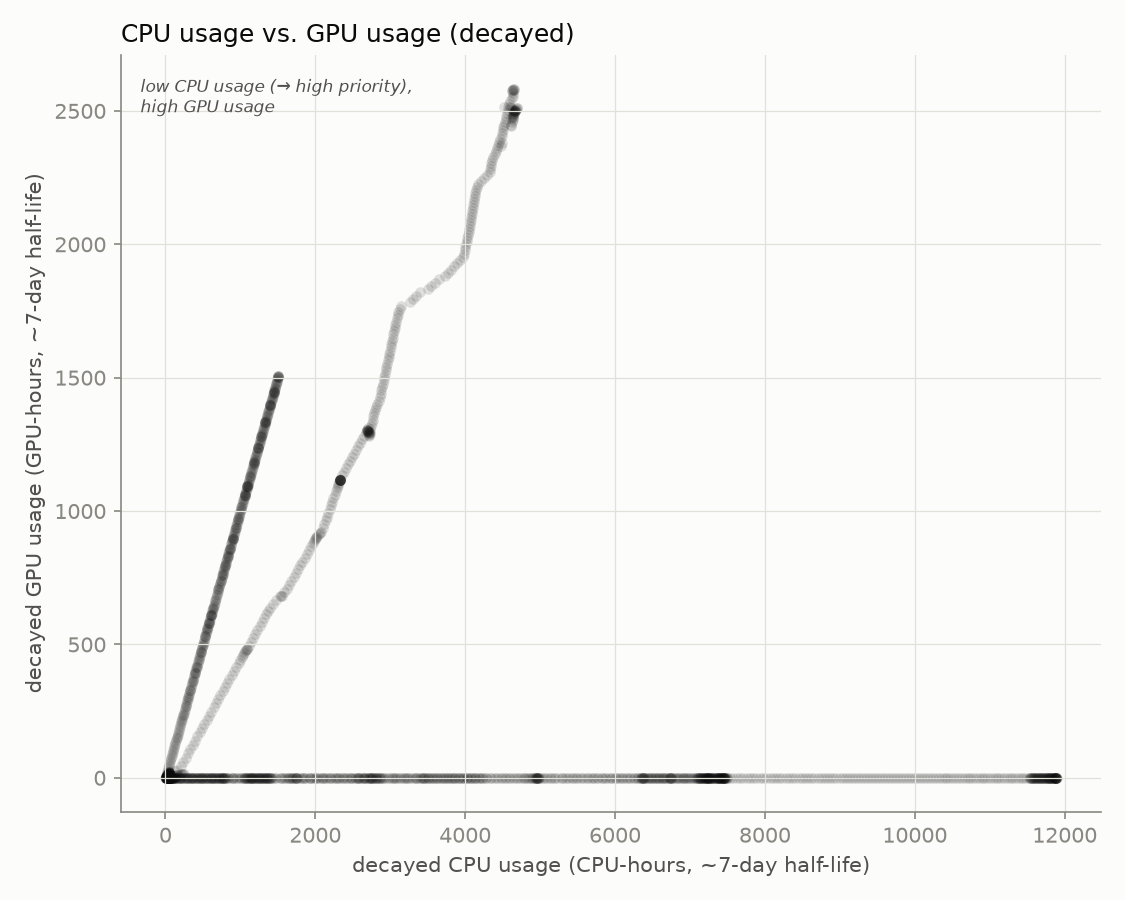
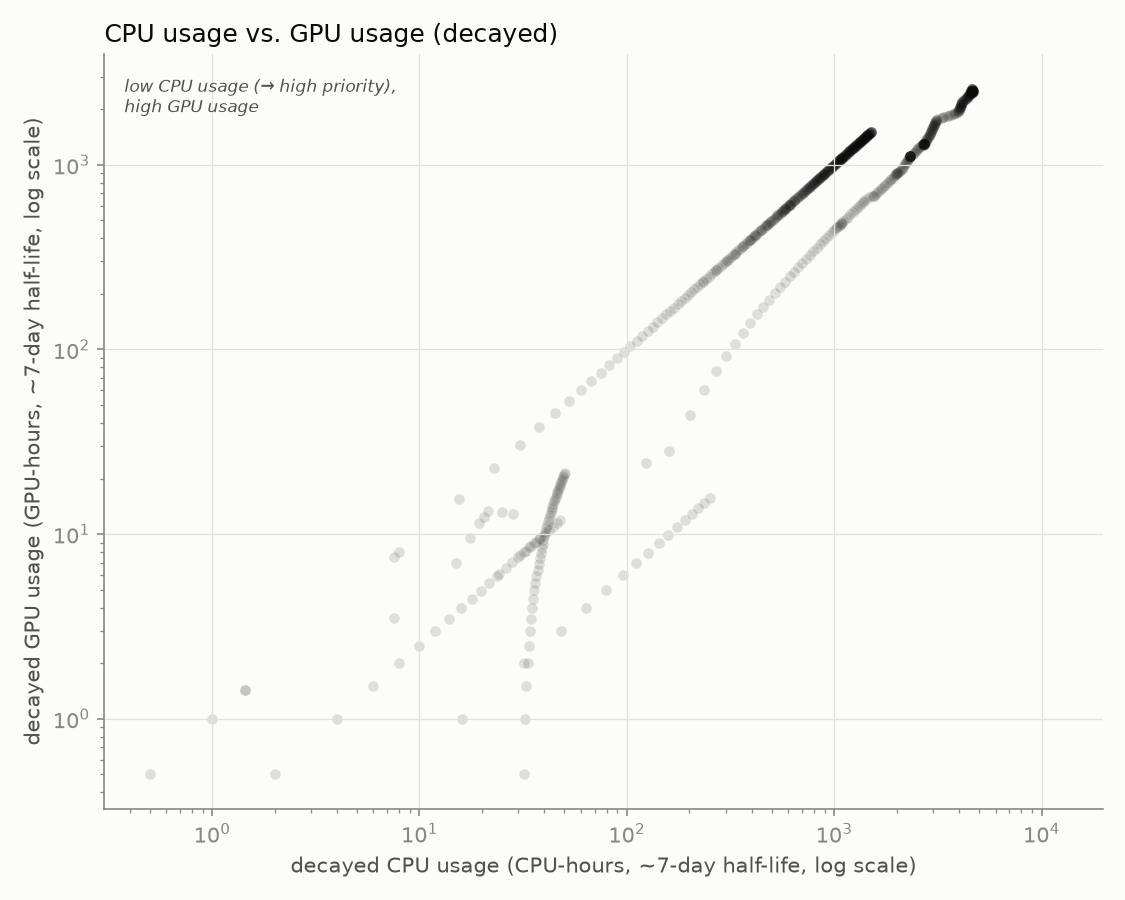
Use log scale for CPU vs GPU usage scatter axes

diff --git a/render_readme.py b/render_readme.py
@@ -656,8 +656,10 @@ def render(gpu_rows_all, cpu_util_rows_all, queue_rows_all_unfiltered,
         gpu_vals = [p[1] for p in decay_points]
         fig, ax = plt.subplots(figsize=(7.5, 6))
         ax.scatter(cpu_vals, gpu_vals, color=INK, alpha=0.12, s=26, linewidth=0)
-        ax.set_xlabel("decayed CPU usage (CPU-hours, ~7-day half-life)")
-        ax.set_ylabel("decayed GPU usage (GPU-hours, ~7-day half-life)")
+        ax.set_xscale("log")
+        ax.set_yscale("log")
+        ax.set_xlabel("decayed CPU usage (CPU-hours, ~7-day half-life, log scale)")
+        ax.set_ylabel("decayed GPU usage (GPU-hours, ~7-day half-life, log scale)")
         ax.set_title("CPU usage vs. GPU usage (decayed)", loc="left", fontsize=12)
         ax.text(0.02, 0.97, "low CPU usage (→ high priority),\nhigh GPU usage",
                 transform=ax.transAxes, ha="left", va="top", fontsize=8,

diff --git a/README.md b/README.md
@@ -2,7 +2,7 @@
 
 Automated GPU/CPU/queue utilization tracker for `hopper.cluster`, updated every 30 minutes by cron. Usernames are anonymized to a stable per-account pseudonym; lab names are real.
 
-Last updated: 2026-08-15T09:30:16-07:00
+Last updated: 2026-08-15T09:35:04-07:00
 Samples: 471 queue snapshots total (336 in the last 7 days), 471 GPU snapshots total (336 in the last 7 days)
 
 ## Resources
@@ -35,18 +35,18 @@ Based on 11 days of history so far, `hopper.cluster` has historically been most 
 <tr style='background-color:#d8efef'><td>witter-lab</td><td>user-f5bf0d80</td><td align='right'>15.0</td><td align='right'>15.0</td><td align='right'>50%</td><td align='right'>50%</td></tr>
 <tr style='background-color:#fce8e0'><td>gillen-lab</td><td>user-d21e03f5</td><td align='right'>1.5</td><td align='right'>1.5</td><td align='right'>31%</td><td align='right'>31%</td></tr>
 <tr style='background-color:#fbebf1'><td>nerenberg-lab</td><td>user-6bb5f332</td><td align='right'>0.0</td><td align='right'>40.0</td><td align='right'>—</td><td align='right'>71%</td></tr>
+<tr style='background-color:#fce8e0'><td>gillen-lab</td><td>user-b89a87ef</td><td align='right'>0.0</td><td align='right'>0.0</td><td align='right'>—</td><td align='right'>—</td></tr>
 <tr style='background-color:#d8ecd8'><td>ritz-lab</td><td>user-37f252dd</td><td align='right'>0.0</td><td align='right'>0.0</td><td align='right'>—</td><td align='right'>—</td></tr>
 <tr style='background-color:#dfeaf8'><td>enkavi-lab</td><td>user-c21bdaa4</td><td align='right'>0.0</td><td align='right'>0.0</td><td align='right'>—</td><td align='right'>—</td></tr>
-<tr style='background-color:#fcf0d8'><td>ibarragarciapadilla-lab</td><td>user-eec7ffae</td><td align='right'>0.0</td><td align='right'>0.0</td><td align='right'>—</td><td align='right'>—</td></tr>
-<tr style='background-color:#fce8e0'><td>gillen-lab</td><td>user-b89a87ef</td><td align='right'>0.0</td><td align='right'>0.0</td><td align='right'>—</td><td align='right'>—</td></tr>
 <tr style='background-color:#fbebf1'><td>nerenberg-lab</td><td>user-b12dc074</td><td align='right'>0.0</td><td align='right'>0.0</td><td align='right'>—</td><td align='right'>—</td></tr>
-<tr style='background-color:#fcf0d8'><td>ibarragarciapadilla-lab</td><td>user-dad71a72</td><td align='right'>0.0</td><td align='right'>0.0</td><td align='right'>—</td><td align='right'>—</td></tr>
 <tr style='background-color:#fcf0d8'><td>ibarragarciapadilla-lab</td><td>user-3cfc41a3</td><td align='right'>0.0</td><td align='right'>0.0</td><td align='right'>—</td><td align='right'>—</td></tr>
+<tr style='background-color:#fcf0d8'><td>ibarragarciapadilla-lab</td><td>user-eec7ffae</td><td align='right'>0.0</td><td align='right'>0.0</td><td align='right'>—</td><td align='right'>—</td></tr>
+<tr style='background-color:#fcf0d8'><td>ibarragarciapadilla-lab</td><td>user-dad71a72</td><td align='right'>0.0</td><td align='right'>0.0</td><td align='right'>—</td><td align='right'>—</td></tr>
 </table>
 
 ## Usage over time
 
-Charts below cover the trailing 7 days: **2026-08-08 09:30 to 2026-08-15 09:30** (PDT).
+Charts below cover the trailing 7 days: **2026-08-08 09:35 to 2026-08-15 09:35** (PDT).
 
 ![CPU allocation over time](assets/cpu_alloc.png)
 
